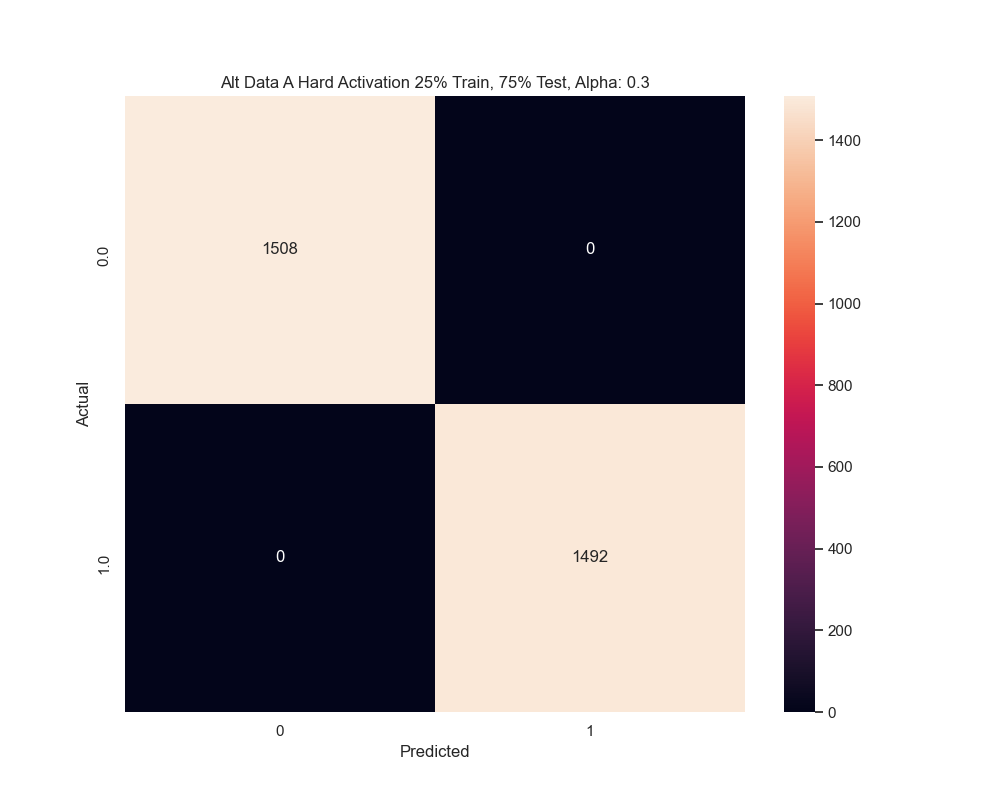
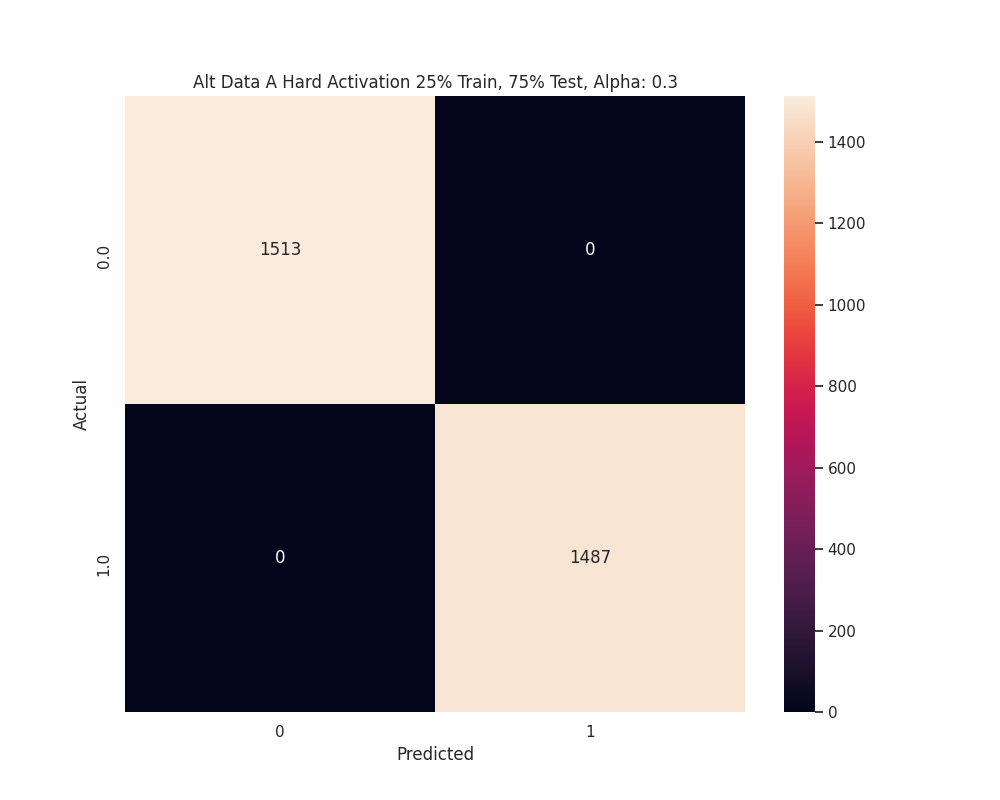
add group a changes

diff --git a/assignment2.py b/assignment2.py
@@ -17,7 +17,7 @@ epsilon_b = 100
 epsilon_c = 400
 epsilon_alt_b = 200
 epsilon_alt_c = 700
-alpha = 0.1  # 0.1
+alpha = 0.3  # 0.1
 
 # Read Datasets
 a_25 = pd.read_csv("./splits/a_0.25.csv")
@@ -29,6 +29,8 @@ a_75.columns = ['Price', 'Weight', 'Type']
 # df_b.columns = ['Price', 'Weight', 'Type']
 # df_c = pd.read_csv("data_C.csv")
 # df_c.columns = ['Price', 'Weight', 'Type']
+a_alt_25 = pd.read_csv("./splits/alt_a_0.25.csv")
+a_alt_75 = pd.read_csv("./splits/alt_a_0.75.csv")
 # df_alt_a = pd.read_csv("data_ALT_A.csv")
 # df_alt_a.columns = ['Price', 'Weight', 'Type']
 # df_alt_b = pd.read_csv("data_ALT_B.csv")
@@ -337,26 +339,26 @@ def confusion_matrix(title, predicted, actual):
     # plt.close()
 
 
-groupa_hard_75, groupa_hard_75_train, groupa_hard_75_test, groupa_hard_75_out, train, test = normalize_and_train_hard(
-    "Group A", a_25, a_75, 0.3, epsilon_a, max_iterations, .25)
-groupa_hard_25, groupa_hard_25_train, groupa_hard_25_test, groupa_hard_25_out, train, test = normalize_and_train_hard(
-    "Group A", a_75, a_25, 0.3, epsilon_a, max_iterations, .75)
-pred, testOut = test_hard(
-    groupa_hard_75, groupa_hard_75_test, groupa_hard_75_out)
-graph_results("[Training] Group A Hard Activation 75% Train, 25% Test, Alpha: 0.3",
-              train, groupa_hard_75)
-graph_results("[Testing] Group A Hard Activation 75% Train, 25% Test, Alpha: 0.3",
-              test, groupa_hard_75)
-confusion_matrix(
-    "Group A Hard Activation 75% Train, 25% Test, Alpha: 0.3", pred, testOut)
-pred, testOut = test_hard(
-    groupa_hard_25, groupa_hard_25_test, groupa_hard_25_out)
-graph_results("[Training] Group A Hard Activation 25% Train, 75% Test, Alpha: 0.3",
-              train, groupa_hard_25)
-graph_results("[Testing] Group A Hard Activation 25% Train, 75% Test, Alpha: 0.3",
-              test, groupa_hard_25)
-confusion_matrix(
-    "Group A Hard Activation 25% Train, 75% Test, Alpha: 0.3", pred, testOut)
+# groupa_hard_75, groupa_hard_75_train, groupa_hard_75_test, groupa_hard_75_out, train, test = normalize_and_train_hard(
+#     "Group A", a_25, a_75, 0.3, epsilon_a, max_iterations, .25)
+# groupa_hard_25, groupa_hard_25_train, groupa_hard_25_test, groupa_hard_25_out, train, test = normalize_and_train_hard(
+#     "Group A", a_75, a_25, 0.3, epsilon_a, max_iterations, .75)
+# pred, testOut = test_hard(
+#     groupa_hard_75, groupa_hard_75_test, groupa_hard_75_out)
+# graph_results("[Training] Group A Hard Activation 75% Train, 25% Test, Alpha: 0.3",
+#               train, groupa_hard_75)
+# graph_results("[Testing] Group A Hard Activation 75% Train, 25% Test, Alpha: 0.3",
+#               test, groupa_hard_75)
+# confusion_matrix(
+#     "Group A Hard Activation 75% Train, 25% Test, Alpha: 0.3", pred, testOut)
+# pred, testOut = test_hard(
+#     groupa_hard_25, groupa_hard_25_test, groupa_hard_25_out)
+# graph_results("[Training] Group A Hard Activation 25% Train, 75% Test, Alpha: 0.3",
+#               train, groupa_hard_25)
+# graph_results("[Testing] Group A Hard Activation 25% Train, 75% Test, Alpha: 0.3",
+#               test, groupa_hard_25)
+# confusion_matrix(
+#     "Group A Hard Activation 25% Train, 75% Test, Alpha: 0.3", pred, testOut)
 
 # groupb_hard_75, groupb_hard_75_train, groupb_hard_75_test, groupb_hard_75_out, train, test = normalize_and_train_hard(
 #     "Group B", df_b, 0.3, epsilon_b, max_iterations, .25)
@@ -379,31 +381,52 @@ confusion_matrix(
 # confusion_matrix(
 #     "Group B Hard Activation 25% Train, 75% Test, Alpha: 0.3", pred, testOut)
 
-groupc_hard_75, groupc_hard_75_train, groupc_hard_75_test, groupc_hard_75_out, train, test = normalize_and_train_hard(
-    "GroupC", c_25, c_75, 0.3, epsilon_c, max_iterations, .25)
-groupc_hard_25, groupc_hard_25_train, groupc_hard_25_test, groupc_hard_25_out, train, test = normalize_and_train_hard(
-    "GroupC", c_25, c_75, 0.3, epsilon_c, max_iterations, .75)
-pred, testOut = test_hard(
-    groupc_hard_75, groupc_hard_75_test, groupc_hard_75_out)
-graph_results("[Training] Group C Hard Activation 75% Train, 25% Test, Alpha: 0.3",
-              train, groupc_hard_75)
-graph_results("[Testing] Group C Hard Activation 75% Train, 25% Test, Alpha: 0.3",
-              test, groupc_hard_75)
-confusion_matrix(
-    "Group C Hard Activation 75% Train, 25% Test, Alpha: 0.3", pred, testOut)
-pred, testOut = test_hard(
-    groupc_hard_25, groupc_hard_25_test, groupc_hard_25_out)
-graph_results("[Training] Group C Hard Activation 25% Train, 75% Test, Alpha: 0.3",
-              train, groupc_hard_25)
-graph_results("[Testing] Group C Hard Activation 25% Train, 75% Test, Alpha: 0.3",
-              test, groupc_hard_25)
-confusion_matrix(
-    "Group C Hard Activation 25% Train, 75% Test, Alpha: 0.3", pred, testOut)
+# groupc_hard_75, groupc_hard_75_train, groupc_hard_75_test, groupc_hard_75_out, train, test = normalize_and_train_hard(
+#     "GroupC", c_25, c_75, 0.3, epsilon_c, max_iterations, .25)
+# groupc_hard_25, groupc_hard_25_train, groupc_hard_25_test, groupc_hard_25_out, train, test = normalize_and_train_hard(
+#     "GroupC", c_25, c_75, 0.3, epsilon_c, max_iterations, .75)
+# pred, testOut = test_hard(
+#     groupc_hard_75, groupc_hard_75_test, groupc_hard_75_out)
+# graph_results("[Training] Group C Hard Activation 75% Train, 25% Test, Alpha: 0.3",
+#               train, groupc_hard_75)
+# graph_results("[Testing] Group C Hard Activation 75% Train, 25% Test, Alpha: 0.3",
+#               test, groupc_hard_75)
+# confusion_matrix(
+#     "Group C Hard Activation 75% Train, 25% Test, Alpha: 0.3", pred, testOut)
+# pred, testOut = test_hard(
+#     groupc_hard_25, groupc_hard_25_test, groupc_hard_25_out)
+# graph_results("[Training] Group C Hard Activation 25% Train, 75% Test, Alpha: 0.3",
+#               train, groupc_hard_25)
+# graph_results("[Testing] Group C Hard Activation 25% Train, 75% Test, Alpha: 0.3",
+#               test, groupc_hard_25)
+# confusion_matrix(
+#     "Group C Hard Activation 25% Train, 75% Test, Alpha: 0.3", pred, testOut)
 
 # groupa_soft_75, groupa_soft_75_train, groupa_soft_75_test, groupa_soft_75_out, gainA_75, train, test = normalize_and_train_soft(
 #     "GroupA", df_a, 0.3, epsilon_a, max_iterations, .2, .25)
 # groupa_soft_25, groupa_soft_25_train, groupa_soft_25_test, groupa_soft_25_out, gainB_25, train, test = normalize_and_train_soft(
 #     "GroupA", df_a, 0.3, epsilon_a, max_iterations, .2, .75)
+# pred, testOut = test_soft(
+#     groupa_soft_75, groupa_soft_75_test, groupa_soft_75_out, gainA_75)
+# graph_results("[Training] Group A Soft Activation 75% Train, 25% Test, Alpha: 0.3, Gain: 0.2",
+#               train, groupa_soft_75)
+# graph_results("[Testing] Group A Soft Activation 75% Train, 25% Test, Alpha: 0.3, Gain: 0.2",
+#               test, groupa_soft_75)
+# confusion_matrix(
+#     "Group C Hard Activation 75% Train, 25% Test, Alpha: 0.3", pred, testOut)
+# pred, testOut = test_hard(
+#     groupc_hard_25, groupc_hard_25_test, groupc_hard_25_out)
+# graph_results("[Training] Group C Hard Activation 25% Train, 75% Test, Alpha: 0.3",
+#               train, groupc_hard_25)
+# graph_results("[Testing] Group C Hard Activation 25% Train, 75% Test, Alpha: 0.3",
+#               test, groupc_hard_25)
+# confusion_matrix(
+#     "Group C Hard Activation 25% Train, 75% Test, Alpha: 0.3", pred, testOut)
+
+# groupa_soft_75, groupa_soft_75_train, groupa_soft_75_test, groupa_soft_75_out, gainA_75, train, test = normalize_and_train_soft(
+#     "GroupA", a_25, a_75, 0.3, epsilon_a, max_iterations, .2, .25)
+# groupa_soft_25, groupa_soft_25_train, groupa_soft_25_test, groupa_soft_25_out, gainB_25, train, test = normalize_and_train_soft(
+#     "GroupA", a_75, a_25, 0.3, epsilon_a, max_iterations, .2, .75)
 # pred, testOut = test_soft(
 #     groupa_soft_75, groupa_soft_75_test, groupa_soft_75_out, gainA_75)
 # graph_results("[Training] Group A Soft Activation 75% Train, 25% Test, Alpha: 0.3, Gain: 0.2",
@@ -442,31 +465,31 @@ confusion_matrix(
 # confusion_matrix(
 #     "Group B Soft Activation 25% Train, 75% Test, Alpha: 0.3, Gain: 0.2", pred, testOut)
 
-groupc_soft_75, groupc_soft_75_train, groupc_soft_75_test, groupc_soft_75_out, gainC_75, train, test = normalize_and_train_soft(
-    "GroupC", c_25, c_75, 0.1, epsilon_c, max_iterations, .1, .25)
-groupc_soft_25, groupc_soft_25_train, groupc_soft_25_test, groupc_soft_25_out, gainC_25, train, test = normalize_and_train_soft(
-    "GroupC", c_25, c_75, 0.1, epsilon_c, max_iterations, .1, .75)
-pred, testOut = test_soft(
-    groupc_soft_75, groupc_soft_75_test, groupc_soft_75_out, gainC_75)
-graph_results("[Training] Group C Soft Activation 75% Train, 25% Test, Alpha: 0.1, Gain: 0.1",
-              train, groupc_soft_75)
-graph_results("[Training]Group C Soft Activation 75% Train, 25% Test, Alpha: 0.1, Gain: 0.1",
-              test, groupc_soft_75)
-confusion_matrix(
-    "Group C Soft Activation 75% Train, 25% Test, Alpha: 0.1, Gain: 0.1", pred, testOut)
-pred, testOut = test_soft(
-    groupc_soft_25, groupc_soft_25_test, groupc_soft_25_out, gainC_25)
-graph_results("[Training] Group C Soft Activation 25% Train, 75% Test, Alpha: 0.1, Gain: 0.1",
-              train, groupc_soft_25)
-graph_results("[Testing] Group C Soft Activation 25% Train, 75% Test, Alpha: 0.1, Gain: 0.1",
-              test, groupc_soft_25)
-confusion_matrix(
-    "Group C Soft Activation 25% Train, 75% Test, Alpha: 0.1, Gain: 0.1", pred, testOut)
+# groupc_soft_75, groupc_soft_75_train, groupc_soft_75_test, groupc_soft_75_out, gainC_75, train, test = normalize_and_train_soft(
+#     "GroupC", c_25, c_75, 0.1, epsilon_c, max_iterations, .1, .25)
+# groupc_soft_25, groupc_soft_25_train, groupc_soft_25_test, groupc_soft_25_out, gainC_25, train, test = normalize_and_train_soft(
+#     "GroupC", c_25, c_75, 0.1, epsilon_c, max_iterations, .1, .75)
+# pred, testOut = test_soft(
+#     groupc_soft_75, groupc_soft_75_test, groupc_soft_75_out, gainC_75)
+# graph_results("[Training] Group C Soft Activation 75% Train, 25% Test, Alpha: 0.1, Gain: 0.1",
+#               train, groupc_soft_75)
+# graph_results("[Training]Group C Soft Activation 75% Train, 25% Test, Alpha: 0.1, Gain: 0.1",
+#               test, groupc_soft_75)
+# confusion_matrix(
+#     "Group C Soft Activation 75% Train, 25% Test, Alpha: 0.1, Gain: 0.1", pred, testOut)
+# pred, testOut = test_soft(
+#     groupc_soft_25, groupc_soft_25_test, groupc_soft_25_out, gainC_25)
+# graph_results("[Training] Group C Soft Activation 25% Train, 75% Test, Alpha: 0.1, Gain: 0.1",
+#               train, groupc_soft_25)
+# graph_results("[Testing] Group C Soft Activation 25% Train, 75% Test, Alpha: 0.1, Gain: 0.1",
+#               test, groupc_soft_25)
+# confusion_matrix(
+#     "Group C Soft Activation 25% Train, 75% Test, Alpha: 0.1, Gain: 0.1", pred, testOut)
 
 alta_hard_75, alta_hard_75_train, alta_hard_75_test, alta_hard_75_out, train, test = normalize_and_train_hard(
-    "Alt A", df_alt_a, 0.3, epsilon_a, max_iterations, .25)
+    "Alt A", a_alt_25, a_alt_75, 0.3, epsilon_a, max_iterations, .25)
 alta_hard_25, alta_hard_25_train, alta_hard_25_test, alta_hard_25_out, train, test = normalize_and_train_hard(
-    "Alt A", df_alt_a, 0.3, epsilon_a, max_iterations, .75)
+    "Alt A", a_alt_75, a_alt_25, 0.3, epsilon_a, max_iterations, .75)
 pred, testOut = test_hard(
     alta_hard_75, alta_hard_75_test, alta_hard_75_out)
 graph_results("[Training] Alt Data A Hard Activation 75% Train, 25% Test, Alpha: 0.3",
@@ -484,52 +507,52 @@ graph_results("[Testing] Alt Data A Hard Activation 25% Train, 75% Test, Alpha: 
 confusion_matrix(
     "Alt Data A Hard Activation 25% Train, 75% Test, Alpha: 0.3", pred, testOut)
 
-altb_hard_75, altb_hard_75_train, altb_hard_75_test, altb_hard_75_out, train, test = normalize_and_train_hard(
-    "Alt B", df_alt_b, 0.3, epsilon_b, max_iterations, .25)
-altb_hard_25, altb_hard_25_train, altb_hard_25_test, altb_hard_25_out, train, test = normalize_and_train_hard(
-    "Alt B", df_alt_b, 0.3, epsilon_b, max_iterations, .75)
-pred, testOut = test_hard(
-    altb_hard_75, altb_hard_75_test, altb_hard_75_out)
-graph_results("[Training] Alt Data B Hard Activation 75% Train, 25% Test, Alpha: 0.3",
-              train, altb_hard_75)
-graph_results("[Testing] Alt Data B Hard Activation 75% Train, 25% Test, Alpha: 0.3",
-              test, altb_hard_75)
-confusion_matrix(
-    "Alt Data B Hard Activation 75% Train, 25% Test, Alpha: 0.3", pred, testOut)
-pred, testOut = test_hard(
-    altb_hard_25, altb_hard_25_test, altb_hard_25_out)
-graph_results("[Training] Alt Data B Hard Activation 25% Train, 75% Test, Alpha: 0.3",
-              train, altb_hard_25)
-graph_results("[Testing] Alt Data B Hard Activation 25% Train, 75% Test, Alpha: 0.3",
-              test, altb_hard_25)
-confusion_matrix(
-    "Alt Data B Hard Activation 25% Train, 75% Test, Alpha: 0.3", pred, testOut)
+# altb_hard_75, altb_hard_75_train, altb_hard_75_test, altb_hard_75_out, train, test = normalize_and_train_hard(
+#     "Alt B", df_alt_b, 0.3, epsilon_b, max_iterations, .25)
+# altb_hard_25, altb_hard_25_train, altb_hard_25_test, altb_hard_25_out, train, test = normalize_and_train_hard(
+#     "Alt B", df_alt_b, 0.3, epsilon_b, max_iterations, .75)
+# pred, testOut = test_hard(
+#     altb_hard_75, altb_hard_75_test, altb_hard_75_out)
+# graph_results("[Training] Alt Data B Hard Activation 75% Train, 25% Test, Alpha: 0.3",
+#               train, altb_hard_75)
+# graph_results("[Testing] Alt Data B Hard Activation 75% Train, 25% Test, Alpha: 0.3",
+#               test, altb_hard_75)
+# confusion_matrix(
+#     "Alt Data B Hard Activation 75% Train, 25% Test, Alpha: 0.3", pred, testOut)
+# pred, testOut = test_hard(
+#     altb_hard_25, altb_hard_25_test, altb_hard_25_out)
+# graph_results("[Training] Alt Data B Hard Activation 25% Train, 75% Test, Alpha: 0.3",
+#               train, altb_hard_25)
+# graph_results("[Testing] Alt Data B Hard Activation 25% Train, 75% Test, Alpha: 0.3",
+#               test, altb_hard_25)
+# confusion_matrix(
+#     "Alt Data B Hard Activation 25% Train, 75% Test, Alpha: 0.3", pred, testOut)
 
-altc_hard_75, altc_hard_75_train, altc_hard_75_test, altc_hard_75_out, train, test = normalize_and_train_hard(
-    "Alt C", alt_c_25, alt_c_75, 0.3, epsilon_c, max_iterations, .25)
-altc_hard_25, altc_hard_25_train, altc_hard_25_test, altc_hard_25_out, train, test = normalize_and_train_hard(
-    "Alt C", alt_c_75, alt_c_25, 0.3, epsilon_c, max_iterations, .75)
-pred, testOut = test_hard(
-    altc_hard_75, altc_hard_75_test, altc_hard_75_out)
-graph_results("[Training] Alt Data C Hard Activation 75% Train, 25% Test, Alpha: 0.3",
-              train, altc_hard_75)
-graph_results("[Testing] Alt Data C Hard Activation 75% Train, 25% Test, Alpha: 0.3",
-              test, altc_hard_75)
-confusion_matrix(
-    "Alt Data C Hard Activation 75% Train, 25% Test, Alpha: 0.3", pred, testOut)
-pred, testOut = test_hard(
-    altc_hard_25, altc_hard_25_test, altc_hard_25_out)
-graph_results("[Training] Alt Data C Hard Activation 25% Train, 75% Test, Alpha: 0.3",
-              train, altc_hard_25)
-graph_results("[Testing] Alt Data C Hard Activation 25% Train, 75% Test, Alpha: 0.3",
-              test, altc_hard_25)
-confusion_matrix(
-    "Alt Data C Hard Activation 25% Train, 75% Test, Alpha: 0.3", pred, testOut)
+# altc_hard_75, altc_hard_75_train, altc_hard_75_test, altc_hard_75_out, train, test = normalize_and_train_hard(
+#     "Alt C", alt_c_25, alt_c_75, 0.3, epsilon_c, max_iterations, .25)
+# altc_hard_25, altc_hard_25_train, altc_hard_25_test, altc_hard_25_out, train, test = normalize_and_train_hard(
+#     "Alt C", alt_c_75, alt_c_25, 0.3, epsilon_c, max_iterations, .75)
+# pred, testOut = test_hard(
+#     altc_hard_75, altc_hard_75_test, altc_hard_75_out)
+# graph_results("[Training] Alt Data C Hard Activation 75% Train, 25% Test, Alpha: 0.3",
+#               train, altc_hard_75)
+# graph_results("[Testing] Alt Data C Hard Activation 75% Train, 25% Test, Alpha: 0.3",
+#               test, altc_hard_75)
+# confusion_matrix(
+#     "Alt Data C Hard Activation 75% Train, 25% Test, Alpha: 0.3", pred, testOut)
+# pred, testOut = test_hard(
+#     altc_hard_25, altc_hard_25_test, altc_hard_25_out)
+# graph_results("[Training] Alt Data C Hard Activation 25% Train, 75% Test, Alpha: 0.3",
+#               train, altc_hard_25)
+# graph_results("[Testing] Alt Data C Hard Activation 25% Train, 75% Test, Alpha: 0.3",
+#               test, altc_hard_25)
+# confusion_matrix(
+#     "Alt Data C Hard Activation 25% Train, 75% Test, Alpha: 0.3", pred, testOut)
 
 alta_soft_75, alta_soft_75_train, alta_soft_75_test, alta_soft_75_out, gainA_75, train, test = normalize_and_train_soft(
-    "AltA", df_alt_a, 0.3, epsilon_a, max_iterations, .2, .25)
+    "AltA", a_alt_25, a_alt_75, 0.3, epsilon_a, max_iterations, .2, .25)
 alta_soft_25, alta_soft_25_train, alta_soft_25_test, alta_soft_25_out, gainB_25, train, test = normalize_and_train_soft(
-    "AltA", df_alt_a, 0.3, epsilon_a, max_iterations, .2, .75)
+    "AltA", a_alt_25, a_alt_75, 0.3, epsilon_a, max_iterations, .2, .75)
 pred, testOut = test_soft(
     alta_soft_75, alta_soft_75_test, alta_soft_75_out, gainA_75)
 graph_results("[Training] Alt Data A Soft Activation 75% Train, 25% Test, Alpha: 0.3, Gain: 0.2",
@@ -547,44 +570,44 @@ graph_results("[Testing] Alt Data A Soft Activation 25% Train, 75% Test, Alpha: 
 confusion_matrix(
     "Alt Data A Soft Activation 25% Train, 75% Test, Alpha: 0.3, Gain: 0.2", pred, testOut)
 
-altb_soft_75, altb_soft_75_train, altb_soft_75_test, altb_soft_75_out, gainB_75, train, test = normalize_and_train_soft(
-    "AltB", df_alt_b, 0.3, epsilon_b, max_iterations, .2, .25)
-altb_soft_25, altb_soft_25_train, altb_soft_25_test, altb_soft_25_out, gainB_25, train, test = normalize_and_train_soft(
-    "AltB", df_alt_b, 0.3, epsilon_b, max_iterations, .2, .75)
-pred, testOut = test_soft(
-    altb_soft_75, altb_soft_75_test, altb_soft_75_out, gainB_75)
-graph_results("[Training] Alt Data B Soft Activation 75% Train, 25% Test, Alpha: 0.3, Gain: 0.2",
-              train, altb_soft_75)
-graph_results("[Testing] Alt Data B Soft Activation 75% Train, 25% Test, Alpha: 0.3, Gain: 0.2",
-              test, altb_soft_75)
-confusion_matrix(
-    "Alt Data B Soft Activation 75% Train, 25% Test, Alpha: 0.3, Gain: 0.2", pred, testOut)
-pred, testOut = test_soft(
-    altb_soft_25, altb_soft_25_test, altb_soft_25_out, gainB_25)
-graph_results("[Training] Alt Data B Soft Activation 25% Train, 25% Test, Alpha: 0.3, Gain: 0.2",
-              train, altb_soft_25)
-graph_results("[Testing] Alt Data B Soft Activation 25% Train, 25% Test, Alpha: 0.3, Gain: 0.2",
-              test, altb_soft_25)
-confusion_matrix(
-    "Alt Data B Soft Activation 25% Train, 75% Test, Alpha: 0.3, Gain: 0.2", pred, testOut)
+# altb_soft_75, altb_soft_75_train, altb_soft_75_test, altb_soft_75_out, gainB_75, train, test = normalize_and_train_soft(
+#     "AltB", df_alt_b, 0.3, epsilon_b, max_iterations, .2, .25)
+# altb_soft_25, altb_soft_25_train, altb_soft_25_test, altb_soft_25_out, gainB_25, train, test = normalize_and_train_soft(
+#     "AltB", df_alt_b, 0.3, epsilon_b, max_iterations, .2, .75)
+# pred, testOut = test_soft(
+#     altb_soft_75, altb_soft_75_test, altb_soft_75_out, gainB_75)
+# graph_results("[Training] Alt Data B Soft Activation 75% Train, 25% Test, Alpha: 0.3, Gain: 0.2",
+#               train, altb_soft_75)
+# graph_results("[Testing] Alt Data B Soft Activation 75% Train, 25% Test, Alpha: 0.3, Gain: 0.2",
+#               test, altb_soft_75)
+# confusion_matrix(
+#     "Alt Data B Soft Activation 75% Train, 25% Test, Alpha: 0.3, Gain: 0.2", pred, testOut)
+# pred, testOut = test_soft(
+#     altb_soft_25, altb_soft_25_test, altb_soft_25_out, gainB_25)
+# graph_results("[Training] Alt Data B Soft Activation 25% Train, 25% Test, Alpha: 0.3, Gain: 0.2",
+#               train, altb_soft_25)
+# graph_results("[Testing] Alt Data B Soft Activation 25% Train, 25% Test, Alpha: 0.3, Gain: 0.2",
+#               test, altb_soft_25)
+# confusion_matrix(
+#     "Alt Data B Soft Activation 25% Train, 75% Test, Alpha: 0.3, Gain: 0.2", pred, testOut)
 
-altc_soft_75, altc_soft_75_train, altc_soft_75_test, altc_soft_75_out, gainC_75, train, test = normalize_and_train_soft(
-    "AltC", alt_c_25, alt_c_75, 0.3, epsilon_c, max_iterations, .2, .25)
-altc_soft_25, altc_soft_25_train, altc_soft_25_test, altc_soft_25_out, gainC_25, train, test = normalize_and_train_soft(
-    "AltC", alt_c_75, alt_c_25, 0.3, epsilon_c, max_iterations, .2, .75)
-pred, testOut = test_soft(
-    altc_soft_75, altc_soft_75_test, altc_soft_75_out, gainC_75)
-graph_results("[Training] Alt Data C Soft Activation 75% Train, 25% Test, Alpha: 0.3, Gain: 0.2",
-              train, altc_soft_75)
-graph_results("[Testing] Alt Data C Soft Activation 75% Train, 25% Test, Alpha: 0.3, Gain: 0.2",
-              test, altc_soft_75)
-confusion_matrix(
-    "Alt Data C Soft Activation 75% Train, 25% Test, Alpha: 0.3, Gain: 0.2", pred, testOut)
-pred, testOut = test_soft(
-    altc_soft_25, altc_soft_25_test, altc_soft_25_out, gainC_25)
-graph_results("[Training] Alt Data C Soft Activation 25% Train, 25% Test, Alpha: 0.3, Gain: 0.2",
-              train, altc_soft_25)
-graph_results("[Testing] Alt Data C Soft Activation 25% Train, 25% Test, Alpha: 0.3, Gain: 0.2",
-              test, altc_soft_25)
-confusion_matrix(
-    "Alt Data C Soft Activation 25% Train, 75% Test, Alpha: 0.3, Gain: 0.2", pred, testOut)
+# altc_soft_75, altc_soft_75_train, altc_soft_75_test, altc_soft_75_out, gainC_75, train, test = normalize_and_train_soft(
+#     "AltC", alt_c_25, alt_c_75, 0.3, epsilon_c, max_iterations, .2, .25)
+# altc_soft_25, altc_soft_25_train, altc_soft_25_test, altc_soft_25_out, gainC_25, train, test = normalize_and_train_soft(
+#     "AltC", alt_c_75, alt_c_25, 0.3, epsilon_c, max_iterations, .2, .75)
+# pred, testOut = test_soft(
+#     altc_soft_75, altc_soft_75_test, altc_soft_75_out, gainC_75)
+# graph_results("[Training] Alt Data C Soft Activation 75% Train, 25% Test, Alpha: 0.3, Gain: 0.2",
+#               train, altc_soft_75)
+# graph_results("[Testing] Alt Data C Soft Activation 75% Train, 25% Test, Alpha: 0.3, Gain: 0.2",
+#               test, altc_soft_75)
+# confusion_matrix(
+#     "Alt Data C Soft Activation 75% Train, 25% Test, Alpha: 0.3, Gain: 0.2", pred, testOut)
+# pred, testOut = test_soft(
+#     altc_soft_25, altc_soft_25_test, altc_soft_25_out, gainC_25)
+# graph_results("[Training] Alt Data C Soft Activation 25% Train, 25% Test, Alpha: 0.3, Gain: 0.2",
+#               train, altc_soft_25)
+# graph_results("[Testing] Alt Data C Soft Activation 25% Train, 25% Test, Alpha: 0.3, Gain: 0.2",
+#               test, altc_soft_25)
+# confusion_matrix(
+#     "Alt Data C Soft Activation 25% Train, 75% Test, Alpha: 0.3, Gain: 0.2", pred, testOut)
